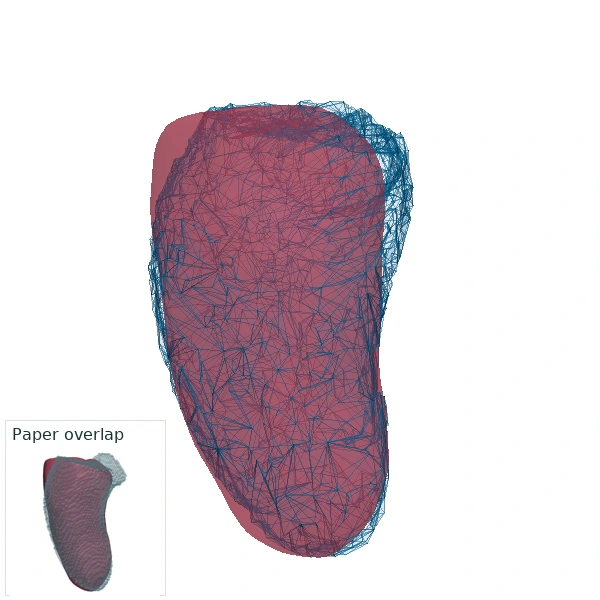
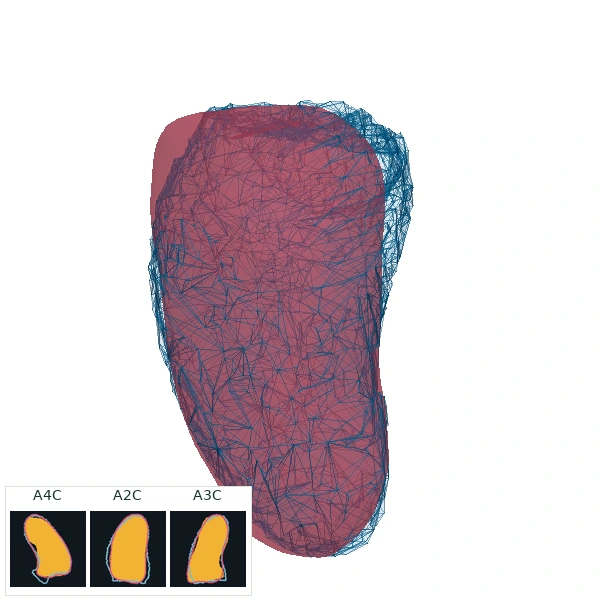
Correct MI display direction and CT mask insets; streamline gallery copy

Changed region(s): [[0.0, 0.69, 0.42, 1.0]]

diff --git a/docs/index.html b/docs/index.html
@@ -2,12 +2,12 @@
 <html lang="en"><head><meta charset="utf-8"><meta name="viewport" content="width=device-width, initial-scale=1"><meta name="description" content="Echo4DMesh: from sparse 2D echo to dynamic 4D cardiac meshes. Research demonstrations from sparse-view masks."><title>From Sparse 2D Echo to Dynamic 4D Cardiac Meshes · Echo4DMesh</title><link rel="stylesheet" href="style.css"><script defer src="data.js"></script><script defer src="app.js"></script></head>
 <body><header><a class="brand" href="#">Echo<span>4D</span>Mesh</a><nav aria-label="Main navigation"><a href="#comparison">Comparison</a><a href="#clinical">Motion</a><a href="#overlap">Cross-sections</a><a href="#wholeheart">Whole heart</a><a href="#validation">Validation</a><a href="https://github.com/lya19971103/Echo4DMesh">GitHub ↗</a></nav></header>
 <main><section class="hero"><div><p class="eyebrow">RESEARCH DEMONSTRATIONS / CARDIAC RECONSTRUCTION</p><h1>From sparse 2D echo<br>To dynamic <em>4D cardiac meshes.</em></h1><p class="intro">Explore patient-specific cardiac surfaces, cross-sectional agreement, and paired CT and cine MRI comparisons.</p><a class="button" href="#comparison">Explore the reconstructions ↓</a></div><figure class="hero-media"><img src="assets/normal-01.webp" alt="Reconstructed LV within its epicardial envelope"><figcaption>Left ventricle + epicardial envelope<span>4D / surface geometry</span></figcaption></figure></section>
-<section id="comparison"><div class="section-head"><p class="eyebrow">01 / STATE-OF-THE-ART COMPARISON</p><h2>LV reconstruction on the public Control Cohort.</h2><p>Qualitative comparison of LV reconstruction with the state-of-the-art method on the public Control Cohort (CC) dataset.</p></div><div id="comparison-player" class="comparison-block"></div></section>
-<section id="clinical"><div class="section-head"><p class="eyebrow">02 / CROSS-DISEASE MOTION</p><h2>One framework. Different anatomies.</h2><p>LV–MYO motion examples across Normal, HCM and MI settings.</p></div><div id="clinical-grid" class="grid three"></div><p class="note">MI: MRI-derived masks with an MI LV prior. A2C/A3C/A4C: schematic display angles, not calibrated imaging planes.</p></section>
-<section id="heldout"><div class="section-head"><p class="eyebrow">03 / HELD-OUT SHAPE ADAPTATION</p><h2>A view beyond the shape inputs.</h2><p>A3C and A4C drive shape adaptation. Compare the predicted A2C cross-section with its reference mask before and after adaptation, overlaid on the matched ultrasound frame.</p></div><div class="protocol"><span>A3C + A4C</span><span aria-hidden="true">→</span><span>Shape adaptation</span><span aria-hidden="true">→</span><span>A2C evaluation</span></div><div id="heldout-grid" class="grid three"></div><p class="legend"><i class="green"></i>Reference only <i class="red"></i>Prediction only <i class="purple"></i>Overlap</p><p class="note">Protocol boundary: A2C is withheld from the shape encoder and shape-adaptation loss, but its mask is used for probe-pose calibration. This is not a completely untouched target-view test. Backgrounds are matched real ultrasound frames with scanner-margin annotations removed; masks and predictions are unchanged.</p></section>
-<section id="overlap"><div class="section-head"><p class="eyebrow">04 / 2D OBSERVATION AGREEMENT</p><h2>Follow the cross-sections through a cycle.</h2><p>LV sections of the exported mesh compared with the input masks in A2C, A3C and A4C, using the fixed calibrated planes.</p></div><div id="overlap-player" class="wide"></div><p class="legend"><i class="green"></i>Reference only <i class="red"></i>Prediction only <i class="purple"></i>Overlap</p><p class="note">This is an observed-view fit, separate from the held-out experiment above. High 2D overlap does not by itself establish independent 3D anatomical accuracy.</p></section>
-<section id="wholeheart"><div class="section-head"><p class="eyebrow">05 / MULTI-STRUCTURE EXPLORATION</p><h2>A shared space for the whole heart.</h2><p>Five-structure surfaces with smooth lighting and a transparent epicardial envelope. P1 additionally includes a clearly labeled display-only RA position adjustment; its original reconstruction remains available.</p></div><div id="wholeheart-grid" class="grid two"></div><p class="note">LV: pearl · epicardial envelope: champagne · RV: blue · LA: orange · RA: teal. P1: RA is translated downward by 3% of the whole-heart display height, identically at all phases, for illustrative layout only. This adjusted view is not an evaluated reconstruction. Use “Show original geometry” to inspect the unchanged output. P2 positions are unchanged. Chambers are independently closed surfaces, not a valve-connected model; gaps or intersections may remain.</p></section>
-<section id="validation"><div class="section-head"><p class="eyebrow">06 / CT GEOMETRY COMPARISON</p><h2>A different modality. A three-dimensional reference.</h2><p>Rotate the paper's three patient-matched LV examples: reconstruction in red and CT reference as a thin blue wireframe, matching the MRI comparison colors, surface opacity and wire styling below. Each lower-left inset is the corresponding static 3D overlap panel from the paper.</p></div><div id="ct-grid" class="grid three"></div><p class="note">The CT wireframe is simplified for display only; source meshes and measurements are unchanged. Camera rotation only: these are static end-diastolic surfaces, not CT motion sequences. A global similarity transform aligns position, orientation and uniform scale; no nonrigid deformation is applied. These revised-label visualization examples are complementary CT comparisons, not additional independent validation or evidence of absolute scale recovery.</p></section>
+<section id="comparison"><div class="section-head"><p class="eyebrow">01 / STATE-OF-THE-ART COMPARISON</p><h2>LV reconstruction on the public Control Cohort.</h2><p>Qualitative comparison of LV reconstruction with <a href="#ref-mia25">Laumer et al. [1]</a> on the public Control Cohort (CC) dataset.</p></div><div id="comparison-player" class="comparison-block"></div><p class="note" id="ref-mia25">[1] F. Laumer et al. <a href="https://doi.org/10.1016/j.media.2024.103434">2D echocardiography video to 3D heart shape reconstruction for clinical application.</a> <em>Medical Image Analysis</em>, 101:103434, 2025.</p></section>
+<section id="clinical"><div class="section-head"><p class="eyebrow">02 / CROSS-DISEASE ADAPTATION</p><h2>One framework. Different anatomies.</h2><p>LV–MYO motion examples across Normal, HCM and MI settings. <a class="context-link" href="provenance.html#motion">Sources &amp; views ↗</a></p></div><div id="clinical-grid" class="grid three"></div></section>
+<section id="heldout"><div class="section-head"><p class="eyebrow">03 / HELD-OUT SHAPE ADAPTATION</p><h2>A view beyond the shape inputs.</h2><p>A3C and A4C drive shape adaptation. Compare the predicted A2C cross-section with its reference mask before and after adaptation, overlaid on the matched ultrasound frame. <a class="context-link" href="provenance.html#heldout">Protocol ↗</a></p></div><div class="protocol"><span>A3C + A4C</span><span aria-hidden="true">→</span><span>Shape adaptation</span><span aria-hidden="true">→</span><span>A2C evaluation</span></div><div id="heldout-grid" class="grid three"></div><p class="legend"><i class="green"></i>Reference only <i class="red"></i>Prediction only <i class="purple"></i>Overlap</p></section>
+<section id="overlap"><div class="section-head"><p class="eyebrow">04 / 2D OBSERVATION AGREEMENT</p><h2>Follow the cross-sections through a cycle.</h2><p>LV sections of the exported mesh compared with the input masks in A2C, A3C and A4C, using the fixed calibrated planes.</p></div><div id="overlap-player" class="wide"></div><p class="legend"><i class="green"></i>Reference only <i class="red"></i>Prediction only <i class="purple"></i>Overlap</p></section>
+<section id="wholeheart"><div class="section-head"><p class="eyebrow">05 / MULTI-STRUCTURE EXPLORATION</p><h2>A shared space for the whole heart.</h2></div><div id="wholeheart-grid" class="grid two"></div></section>
+<section id="validation"><div class="section-head"><p class="eyebrow">06 / 3D CT EXTERNAL VALIDATION</p><h2>A different modality. A three-dimensional reference.</h2><p>Patient-matched LV reconstruction (red) and CT reference (blue). Lower-left insets show the paper's A4C, A2C and A3C mask overlaps. <a class="context-link" href="provenance.html#ct">Evaluation details ↗</a></p></div><div id="ct-grid" class="grid three"></div></section>
 <section id="mri"><div class="section-head"><p class="eyebrow">07 / CINE MRI TEMPORAL COMPARISON</p><h2>Geometry and volume, in step.</h2><p>The two paper-selected examples pair each rendered frame with its measured normalized LV volume. Scrub the cycle or press play: mesh and curve marker share the same frame index.</p><a class="download-link" href="assets/MRI_mesh_and_volume_GIFs.zip" download>Download MRI mesh + volume-curve GIFs ↓</a></div><div id="mri-grid" class="grid two"></div><p class="note">Red: reconstructed LV · blue: MRI reference · champagne: epicardial envelope. Curves are normalized by each sequence's end-diastolic volume. All 25 native frames are retained; frame 24 is 96% of a periodic cycle. The 100% curve endpoint repeats frame 0 for display closure, not an extra measured frame. MRI-derived approximate view masks are distinct from clinical ultrasound acquisition.</p></section>
-<section class="methods"><p class="eyebrow">READING THESE DEMOS</p><h2>Geometry is evidence. Context matters.</h2><div class="grid three"><div><h3>Real outputs, not illustrations</h3><p>Animations are rendered from stored reconstruction outputs. CT camera motion does not deform the mesh; MRI curves use stored per-frame measurements.</p></div><div><h3>Separate evaluation questions</h3><p>Observed-view overlap, held-out shape adaptation, CT geometry and MRI temporal agreement address different questions and should not be treated as interchangeable.</p></div><div><h3>Display aliases only</h3><p>Public assets use cohort labels and display aliases. Ultrasound previews exclude scanner-margin annotations; source filenames, scan dates, raw scan files and private filesystem paths are not distributed.</p></div></div></section></main>
-<footer><a class="brand" href="#">Echo<span>4D</span>Mesh</a><p>Research demo gallery · <a href="https://github.com/lya19971103/Echo4DMesh">Source repository ↗</a></p><p>Comparison animation: <a href="https://github.com/ryannus2025-ai/Echo4DIR">Echo4DIR</a>; original frame-by-frame comparator relabeled “w/o TC-RSA”.</p><p>For research communication only. No clinical interpretation is provided.</p></footer></body></html>
+</main>
+<footer><a class="brand" href="#">Echo<span>4D</span>Mesh</a><p>Research demo gallery · <a href="https://github.com/lya19971103/Echo4DMesh">Source repository ↗</a></p><p><a href="provenance.html">Demo sources &amp; protocols ↗</a></p></footer></body></html>

diff --git a/docs/app.js b/docs/app.js
@@ -3,9 +3,9 @@ const D=window.DEMO_DATA;
 function player(item){const card=document.createElement('article');card.className='card';card.innerHTML=`<h3>${item.label}</h3><img src="${item.poster}" alt="${item.label} reconstruction preview" loading="lazy"><div class="controls"><button type="button" aria-pressed="false">Play animation</button><a class="active-download" href="${item.gif}" download>Download GIF ↓</a></div>`;const button=card.querySelector('button'),img=card.querySelector('img');let selected=item;
  button.onclick=()=>{const play=button.getAttribute('aria-pressed')!=='true';button.setAttribute('aria-pressed',String(play));button.textContent=play?'Stop animation':'Play animation';img.src=play?selected.gif:selected.poster;};
  if(item.views){const controls=card.querySelector('.controls'),label=document.createElement('label'),select=document.createElement('select');label.className='view-selector';label.textContent='View ';select.setAttribute('aria-label',item.label+' viewing direction');for(const view of Object.keys(item.views)){const option=document.createElement('option');option.value=view;option.textContent=view==='Common'?'Common display angle':view;select.append(option);}label.append(select);controls.prepend(label);select.onchange=()=>{selected=item.views[select.value];img.src=button.getAttribute('aria-pressed')==='true'?selected.gif:selected.poster;card.querySelector('.active-download').href=selected.gif;img.alt=item.label+' · '+select.value;};const downloads=document.createElement('div');downloads.className='view-downloads';for(const view of ['A2C','A3C','A4C']){const link=document.createElement('a');link.href=item.views[view].gif;link.download='';link.textContent=view+' GIF ↓';downloads.append(link);}card.append(downloads);}
- if(item.originalGif){let adjusted=true;const toggle=document.createElement('button');toggle.type='button';toggle.className='geometry-toggle';toggle.textContent='Show original geometry';toggle.onclick=()=>{adjusted=!adjusted;selected=adjusted?item:{gif:item.originalGif,poster:item.originalPoster};img.src=button.getAttribute('aria-pressed')==='true'?selected.gif:selected.poster;card.querySelector('.active-download').href=selected.gif;card.querySelector('h3').textContent=adjusted?item.label:'Whole heart · P1 (original geometry)';toggle.textContent=adjusted?'Show original geometry':'Show display adjustment';};card.querySelector('.controls').append(toggle);}
+ if(item.originalGif){let adjusted=true;const toggle=document.createElement('button');toggle.type='button';toggle.className='geometry-toggle';toggle.textContent='Original';toggle.onclick=()=>{adjusted=!adjusted;selected=adjusted?item:{gif:item.originalGif,poster:item.originalPoster};img.src=button.getAttribute('aria-pressed')==='true'?selected.gif:selected.poster;card.querySelector('.active-download').href=selected.gif;card.querySelector('h3').textContent=adjusted?item.label:'P1 (original)';toggle.textContent=adjusted?'Original':'Display adjustment';};card.querySelector('.controls').append(toggle);}
  return card;}
-for(const [key,id] of [['clinical','clinical-grid'],['wholeheart','wholeheart-grid'],['ct','ct-grid']])for(const item of D[key])document.getElementById(id).append(player(item));
+for(const [key,id] of [['clinical','clinical-grid'],['wholeheart','wholeheart-grid'],['ct','ct-grid']])for(const [index,item] of D[key].entries())document.getElementById(id).append(player(key==='wholeheart'?{...item,label:'P'+(index+1)}:item));
 const comparisonCard=player(D.comparison);comparisonCard.querySelector('h3').remove();document.getElementById('comparison-player').append(comparisonCard);
 for(const item of D.heldout){const card=document.createElement('article');card.className='card';card.innerHTML=`<h3>${item.label} · held-out A2C</h3><img src="${item.image}" alt="Before and after shape adaptation on matched real A2C ultrasound" loading="lazy">`;document.getElementById('heldout-grid').append(card);}
 document.getElementById('overlap-player').append(player(D.overlap));

diff --git a/docs/provenance.html b/docs/provenance.html
@@ -1,0 +1,10 @@
+<!doctype html>
+<html lang="en"><head><meta charset="utf-8"><meta name="viewport" content="width=device-width, initial-scale=1"><title>Demo sources &amp; protocols · Echo4DMesh</title><link rel="stylesheet" href="style.css"></head>
+<body><header><a class="brand" href="index.html">Echo<span>4D</span>Mesh</a><a href="index.html">Back to gallery</a></header><main>
+<section><h1>Demo sources &amp; protocols</h1><p>These research visualizations are not clinical assessments.</p></section>
+<section id="comparison"><h2>Control Cohort comparison</h2><p>Animation source: <a href="https://github.com/ryannus2025-ai/Echo4DIR">Echo4DIR</a>. The original frame-by-frame comparator is relabeled “w/o TC-RSA”; mesh imagery and timing are unchanged. This is not a newly run ablation. The MIA25 baseline is <a href="https://doi.org/10.1016/j.media.2024.103434">Laumer et al., Medical Image Analysis 101:103434 (2025)</a>.</p></section>
+<section id="motion"><h2>Motion examples and display views</h2><p>The MI card uses MRI-derived masks with an MI LV prior, not a verified clinical MI echo acquisition. The A2C/A3C/A4C selectors show schematic vertical-axis rotations, not calibrated acquisition planes. Playback is normalized, not clinical heart rate. The epicardial envelope does not independently establish myocardial wall thickness.</p></section>
+<section id="heldout"><h2>Held-out shape adaptation</h2><p>A2C is excluded from the shape encoder and shape-update loss but used for probe-pose calibration and evaluation. It is therefore held out from shape adaptation, not completely untouched. Backgrounds are matched real ultrasound frames with peripheral scanner annotations removed. Section 04 instead displays observed-view fitting.</p></section>
+<section id="wholeheart"><h2>Whole-heart display</h2><p>P1's labeled display copy shifts RA downward by 3% of whole-heart height at every phase. This is an illustrative adjustment, not an evaluated reconstruction. The Original button restores unchanged geometry. P2 is unchanged. Independent closed chamber surfaces do not guarantee valve connectivity.</p></section>
+<section id="ct"><h2>CT comparison</h2><p>These static end-diastolic surfaces rotate only for viewing. Global similarity registration adjusts position, orientation and uniform scale, without local deformation. Revised-label examples are complementary comparisons, not additional independent validation or evidence of absolute scale recovery. The blue wireframe is simplified only for display. Mask insets: yellow = echo, pink = reconstruction, cyan = CT.</p></section>
+</main><footer><a href="index.html">Back to gallery</a></footer></body></html>
